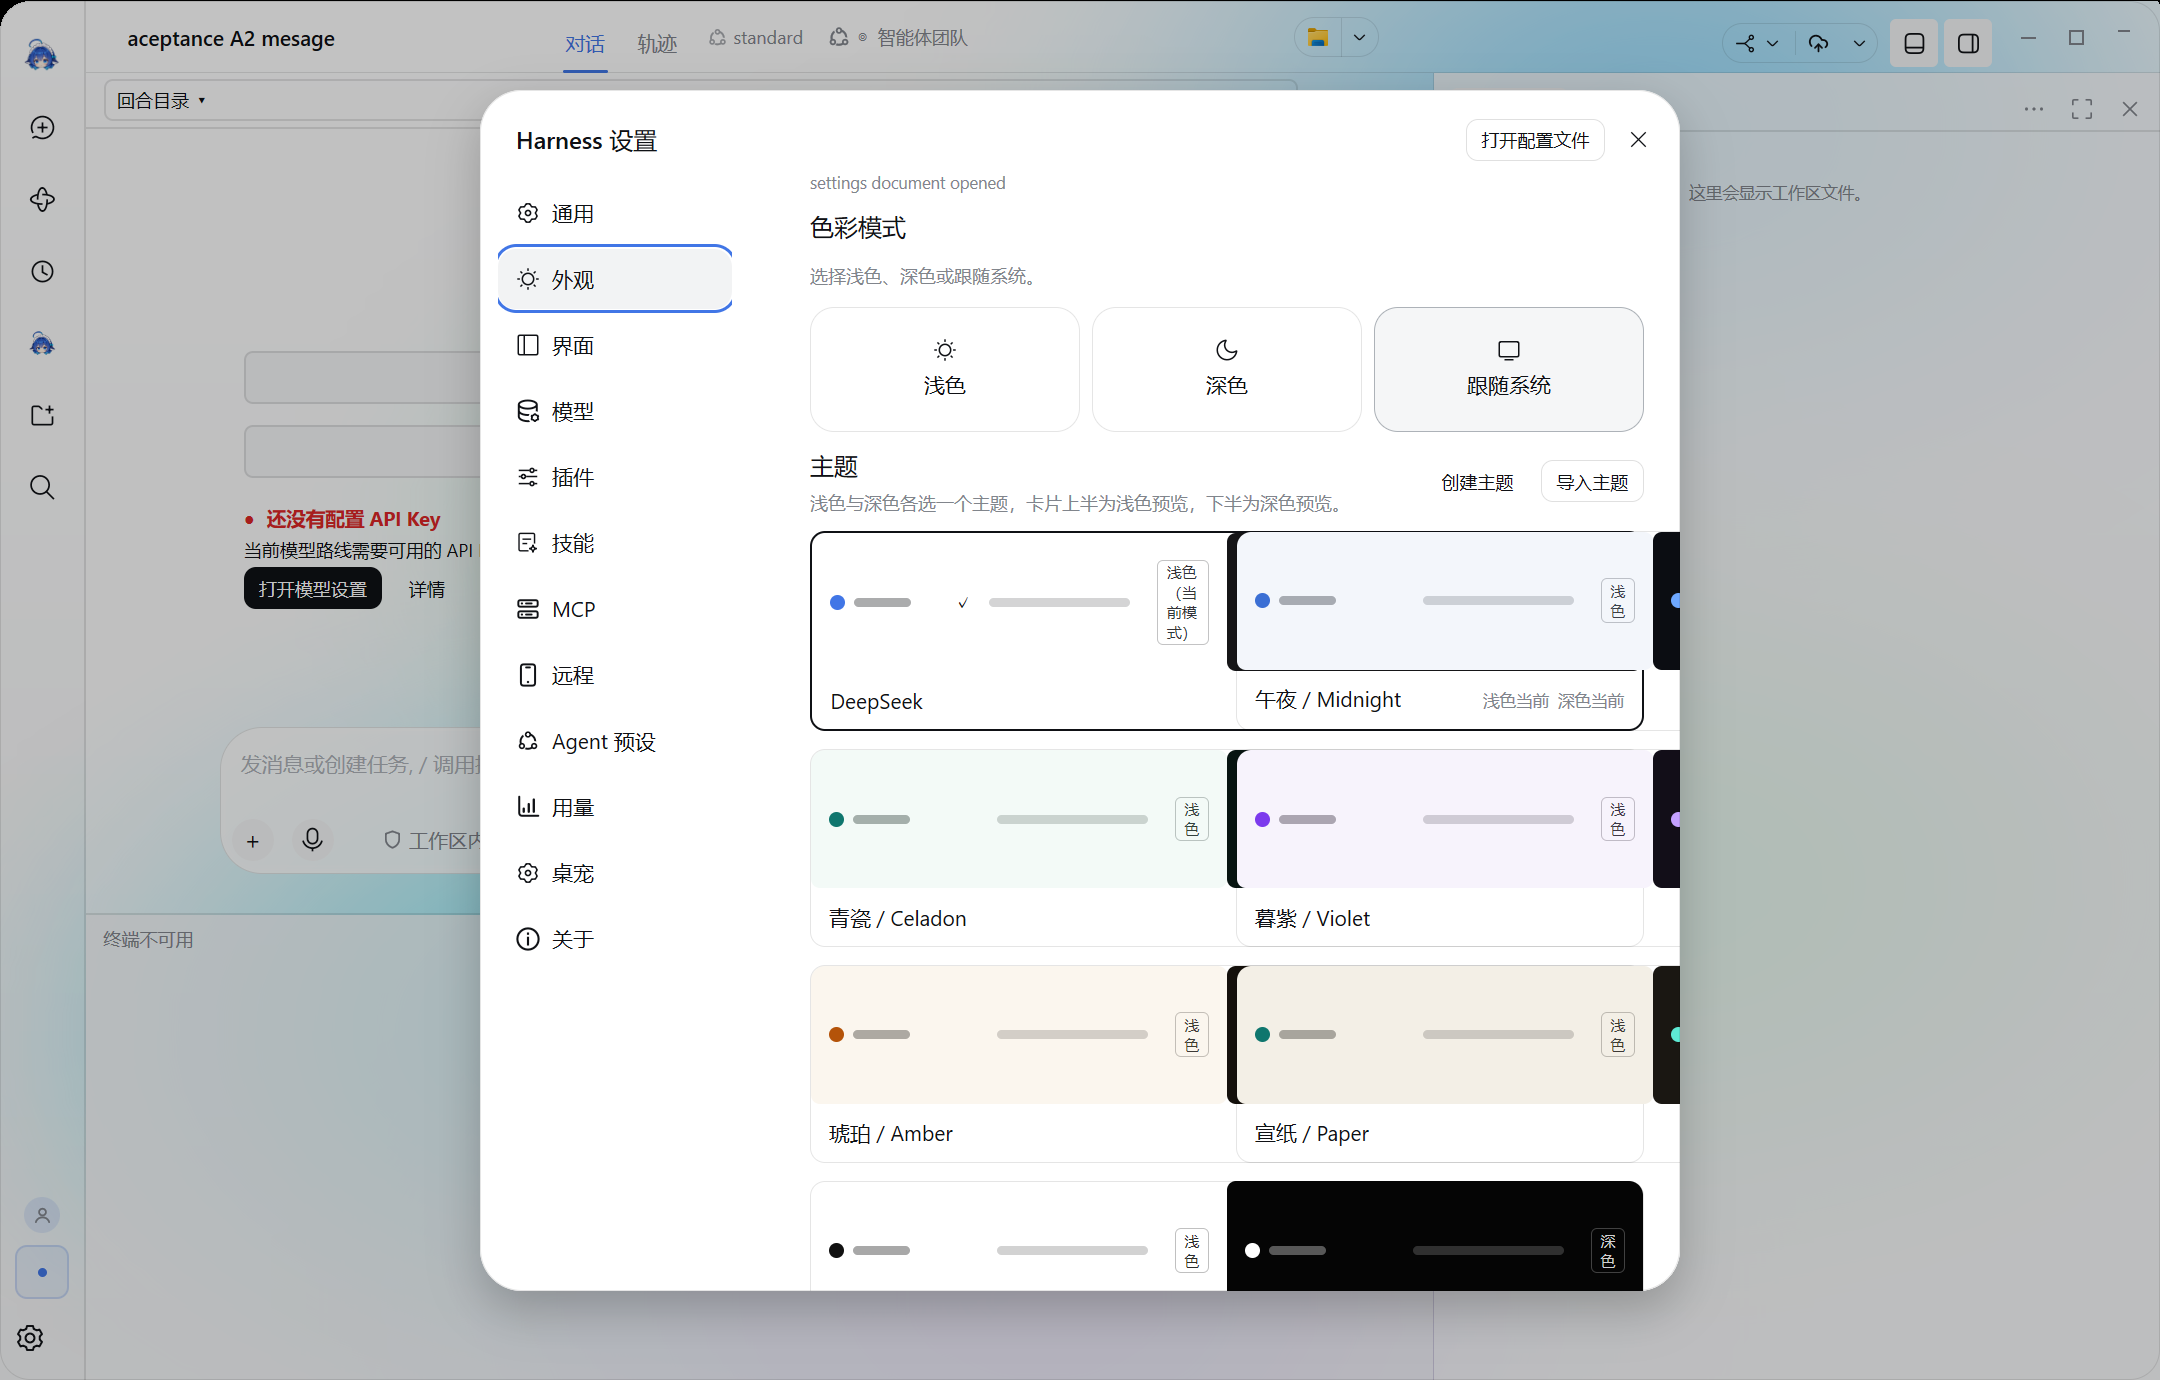
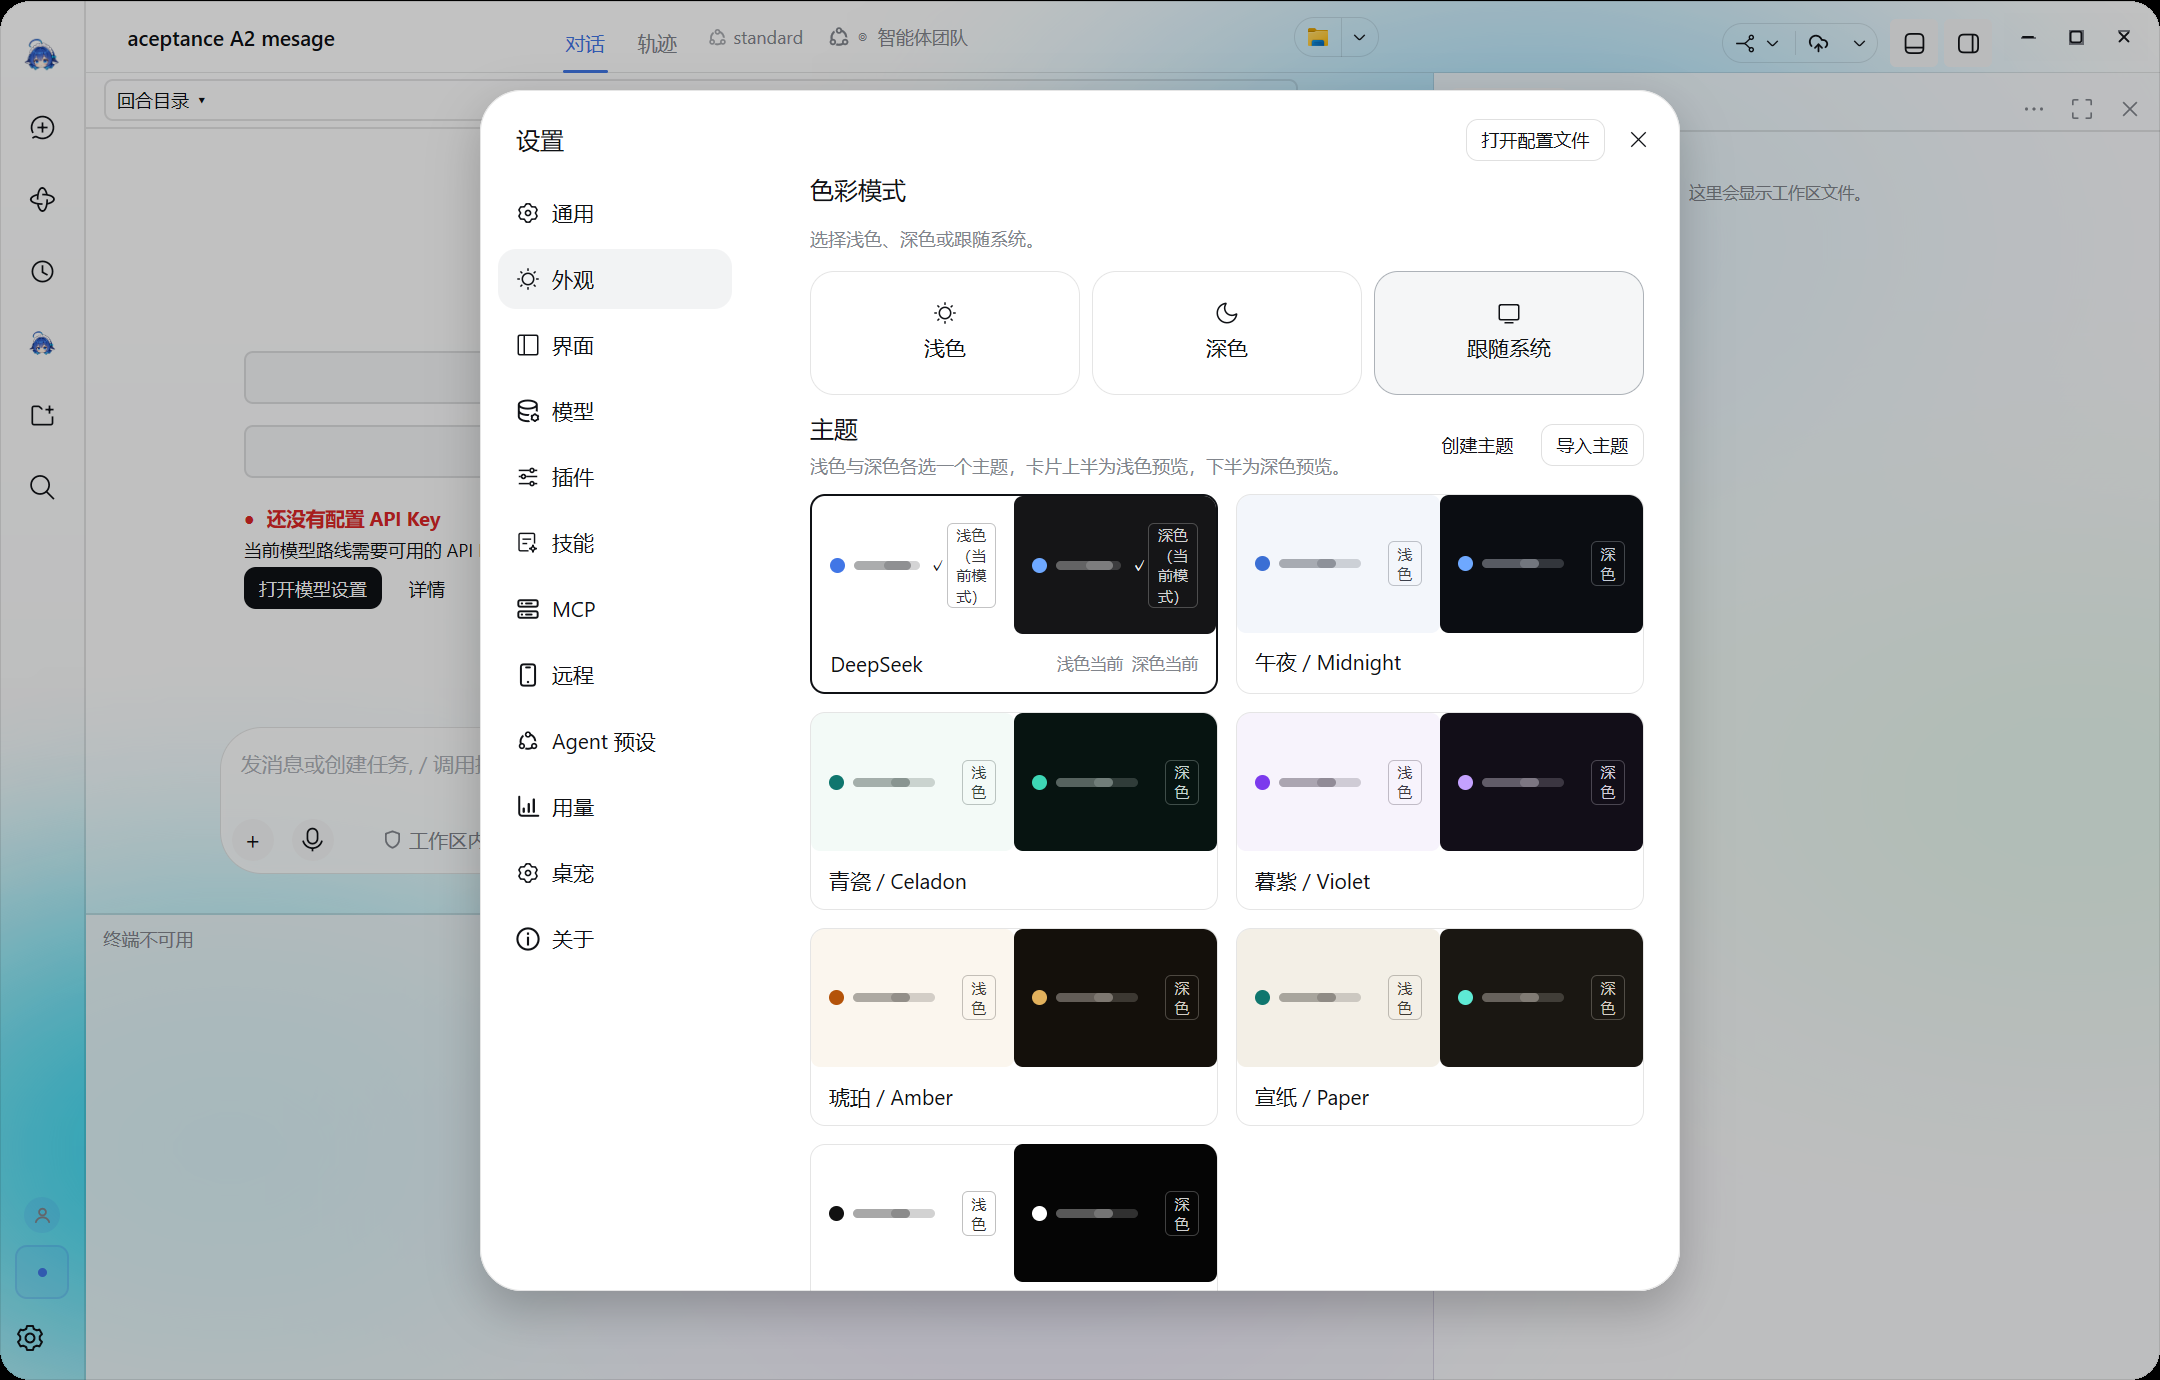
fix: fit the theme grid and use the reference settings names
The appearance theme cards called FillWidth inside a Grid cell, so every card
took the whole grid width: cards overlapped, the second column clipped and a
third sliver appeared. Cards now inherit their cell width, each light/dark half
gets half a card, and a geometry test asserts both halves stay inside the pane.

The settings rail now uses the reference labels (通用设置/界面设置/内置插件/
鲸鱼娘/用量统计 and their English forms) with a 38 DIP row, and a test locks the
names.

diff --git a/internal/ui/i18n/i18n.go b/internal/ui/i18n/i18n.go
@@ -1486,19 +1486,19 @@ var zhCN = map[string]string{
 	KeySettingsDesktopDetectElectronTitle: "Electron 数据探测",
 	KeySettingsDesktopCheckUpdatesTitle:   "检查更新",
 	KeySettingsSectionAccount:             "账号",
-	KeySettingsSectionGeneral:             "通用",
+	KeySettingsSectionGeneral:             "通用设置",
 	KeySettingsSectionAppearance:          "外观",
-	KeySettingsSectionInterface:           "界面",
+	KeySettingsSectionInterface:           "界面设置",
 	KeySettingsSectionModels:              "模型",
-	KeySettingsSectionPlugins:             "插件",
+	KeySettingsSectionPlugins:             "内置插件",
 	KeySettingsSectionSkills:              "技能",
 	KeySettingsSectionMarket:              "市场",
 	KeySettingsSectionRemote:              "远程",
 	KeySettingsSectionMCP:                 "MCP",
 	KeySettingsSectionAgentPresets:        "Agent 预设",
-	KeySettingsSectionPet:                 "桌宠",
+	KeySettingsSectionPet:                 "鲸鱼娘",
 	KeySettingsSectionAbout:               "关于",
-	KeySettingsSectionUsageStats:          "用量",
+	KeySettingsSectionUsageStats:          "用量统计",
 	KeySettingsSectionRemoteWorkspace:     "远程工作区",
 	KeySettingsSectionOther:               "其他",
 	KeyUsageOpen:                          "用量",
@@ -2416,19 +2416,19 @@ var en = map[string]string{
 	KeySettingsDesktopDetectElectronTitle: "Electron data probe",
 	KeySettingsDesktopCheckUpdatesTitle:   "Check for updates",
 	KeySettingsSectionAccount:             "Account",
-	KeySettingsSectionGeneral:             "General",
+	KeySettingsSectionGeneral:             "General settings",
 	KeySettingsSectionAppearance:          "Appearance",
-	KeySettingsSectionInterface:           "Interface",
+	KeySettingsSectionInterface:           "Interface settings",
 	KeySettingsSectionModels:              "Models",
-	KeySettingsSectionPlugins:             "Plugins",
+	KeySettingsSectionPlugins:             "Built-in plugins",
 	KeySettingsSectionSkills:              "Skills",
 	KeySettingsSectionMarket:              "Market",
 	KeySettingsSectionRemote:              "Remote",
 	KeySettingsSectionMCP:                 "MCP",
 	KeySettingsSectionAgentPresets:        "Agent presets",
-	KeySettingsSectionPet:                 "Pet",
+	KeySettingsSectionPet:                 "Whale",
 	KeySettingsSectionAbout:               "About",
-	KeySettingsSectionUsageStats:          "Usage",
+	KeySettingsSectionUsageStats:          "Usage stats",
 	KeySettingsSectionRemoteWorkspace:     "Remote workspace",
 	KeySettingsSectionOther:               "Other",
 	KeyUsageOpen:                          "Usage",

diff --git a/internal/ui/settings/section_labels_test.go b/internal/ui/settings/section_labels_test.go
@@ -1,0 +1,42 @@
+package settings
+
+import (
+	"testing"
+
+	"whaleisle/internal/ui/i18n"
+)
+
+// The settings rail uses the reference names, not shorter paraphrases: the
+// original labels are 通用设置, 界面设置, 内置插件, 鲸鱼娘 and 用量统计.
+func TestSettingsSectionLabelsMatchTheReference(t *testing.T) {
+	i18n.SetLocale(i18n.LocaleEN)
+	t.Cleanup(func() { i18n.SetLocale(i18n.DefaultLocale) })
+
+	// English first, then the Chinese copy.
+	wantEN := map[SectionID]string{
+		SectionGeneral:    "General settings",
+		SectionInterface:  "Interface settings",
+		SectionPlugins:    "Built-in plugins",
+		SectionPet:        "Whale",
+		SectionUsageStats: "Usage stats",
+	}
+	for id, want := range wantEN {
+		if got := sectionLabel(id); got != want {
+			t.Errorf("EN label %s = %q, want %q", id, got, want)
+		}
+	}
+
+	i18n.SetLocale("zh")
+	wantZH := map[SectionID]string{
+		SectionGeneral:    "通用设置",
+		SectionInterface:  "界面设置",
+		SectionPlugins:    "内置插件",
+		SectionPet:        "鲸鱼娘",
+		SectionUsageStats: "用量统计",
+	}
+	for id, want := range wantZH {
+		if got := sectionLabel(id); got != want {
+			t.Errorf("ZH label %s = %q, want %q", id, got, want)
+		}
+	}
+}

diff --git a/internal/ui/settings/theme_font_preferences.go b/internal/ui/settings/theme_font_preferences.go
@@ -55,7 +55,7 @@ func themeLibraryPane(c *ui.Context, e *theme.Editor, colors theme.Colors, fg, m
 			family := f
 			currentLight := e.Draft.Light == family.ID
 			currentDark := e.Draft.Dark == family.ID
-			card := ui.Column(c.Key("theme-card-"+family.ID)).FillWidth().MinWidth(0).Gap(0).Radius(10).Clip().Border(.5, border)
+			card := ui.Column(c.Key("theme-card-"+family.ID)).MinWidth(0).Gap(0).Radius(10).Clip().Border(.5, border)
 			if currentLight || currentDark {
 				card.Border(1.5, fg)
 			}
@@ -104,7 +104,7 @@ func themeLibraryPane(c *ui.Context, e *theme.Editor, colors theme.Colors, fg, m
 func themePreviewHalf(c *ui.Context, family theme.Family, seed theme.Seed, scheme string, current, disabled bool, muted ui.Color, onPick func()) {
 	root := ui.Button(c.Key("theme-half-"+family.ID+"-"+scheme), "").
 		Label(family.Name + " " + scheme).
-		FillWidth().Grow(1).MinWidth(0).Height(92).Padding(12).
+		Basis(0).Grow(1).MinWidth(0).Height(92).Padding(12).
 		Background(chrome.Color(seed.Background)).BorderWidth(0).Disabled(disabled)
 	if root.Hovered() && !disabled {
 		root = root.Opacity(0.92)

diff --git a/internal/ui/settings/theme_grid_geometry_test.go b/internal/ui/settings/theme_grid_geometry_test.go
@@ -1,0 +1,34 @@
+package settings
+
+import (
+	"testing"
+)
+
+// The appearance theme grid must stay inside the settings pane. A live capture
+// showed a third card column clipped at the pane edge, so geometry is asserted,
+// not just the presence of names.
+func TestThemeGridStaysInsideThePane(t *testing.T) {
+	editor, tt := themeGridFixture(t)
+	families := editor.Draft.Families()
+	if len(families) < 2 {
+		t.Fatalf("fixture has %d families", len(families))
+	}
+	const width = 760
+	const inset = 16.0
+	for _, family := range families {
+		light, ok := tt.Find(family.Name + " light")
+		if !ok {
+			t.Fatalf("missing light half for %q", family.Name)
+		}
+		dark, ok := tt.Find(family.Name + " dark")
+		if !ok {
+			t.Fatalf("missing dark half for %q", family.Name)
+		}
+		if light.X < inset || dark.X+dark.W > width-inset+0.5 {
+			t.Fatalf("theme card %q escapes pane: light=%+v dark=%+v width=%d", family.Name, light, dark, width)
+		}
+		if light.W <= 0 || dark.W <= 0 {
+			t.Fatalf("theme card %q has no width: light=%+v dark=%+v", family.Name, light, dark)
+		}
+	}
+}

diff --git a/internal/ui/settings/settings.go b/internal/ui/settings/settings.go
@@ -205,7 +205,7 @@ func nsList(c *ui.Context, m Model, snap settings.ViewState, fg, muted, border, 
 					fill = hover
 				}
 				label := sectionLabel(entry.id)
-				button := ui.Button(c.Key(string(entry.id)), "").Label(label).FillWidth().Height(40).Shrink(0).Radius(12).BorderWidth(0).Background(fill).TextColor(fg).Padding(9, 16, 9, 12).Gap(8).AlignItems(ui.Center)
+				button := ui.Button(c.Key(string(entry.id)), "").Label(label).FillWidth().Height(38).Shrink(0).Radius(12).BorderWidth(0).Background(fill).TextColor(fg).Padding(8, 16, 8, 12).Gap(8).AlignItems(ui.Center)
 				button.Children(func() {
 					ui.Icon(c, settingsIcons[entry.icon]).Size(16, 16).Shrink(0).TextColor(fg)
 					weight := 400

diff --git a/docs/review-20261020/acceptance-matrix.md b/docs/review-20261020/acceptance-matrix.md
@@ -166,3 +166,6 @@ settings.ModalView → SectionContent → paintMainContent("")
 - 去掉表单顶部的内部状态 `settings document opened`（只保留真实保存/错误反馈）。
 - Host 枚举值不再显示裸 token：`workspace-write→工作区内修改`、`completion→回答结束后`、`sidebar→应用内侧栏`、`completed/standard→标准` 等；未知值仍原样显示。下拉选中后映射回 Host 原始值再提交。
 - 视觉验收已确认 12 页设置面板几何在 ±2 DIP 内；剩余系统性差异（玻璃底、导航行距/胶囊、appearance 主题网格溢出、缺失的关闭窗口/繁忙发送项）已记录在 `visual-acceptance.md` 第 6 节。
+- 外观主题网格溢出已修（pass21）：卡片在 Grid 里误用 FillWidth 导致每张卡按整行宽度布局、互相重叠并被面板裁切；移除卡片 FillWidth 后两列各占 50%，新增 TestThemeGridStaysInsideThePane 断言两半都在面板内。实机截图已更新 settings-live/appearance.png。
+
+- 设置导航标签对齐参考：通用设置 / 界面设置 / 内置插件 / 鲸鱼娘 / 用量统计（英文 General settings / Interface settings / Built-in plugins / Whale / Usage stats），行高收到 38 + 4 间距，新增 TestSettingsSectionLabelsMatchTheReference。

diff --git a/docs/review-20261020/visual-acceptance.md b/docs/review-20261020/visual-acceptance.md
@@ -150,3 +150,4 @@ go test ./internal/ui/chrome ./internal/ui/theme ./internal/ui/frame
 - **几何/网格：PASS**（6.2）。
 - **12 页全部 DIFF**，但 11 页同源（DIFF-S1..S5），appearance 另有 DIFF-S6。
 - **未改代码**：能定性修的两条（面板材质 DIFF-S1、导航/行距 DIFF-S2）落在 `internal/ui/settings` 内容与结构层，不在「chrome/theme/设置样式常量」可安全改动的范围；其余是文案与取值格式化（DIFF-S4/S5）与主题网格溢出（S6），同样属 settings 域。建议由 settings 域 owner 处理，我可以在其完成换壳后复验。
+> 后续修复（pass21）：6.3 的 S6 appearance 主题网格溢出已修——卡片 .FillWidth() 在 Grid 单元格里按整行宽度布局，导致第二列重叠/第三列被裁切；移除后两列各占一半，新增几何测试。实机截图 evidence/acceptance/settings-live/appearance.png 已更新。
